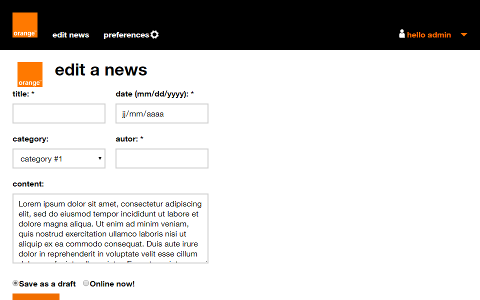
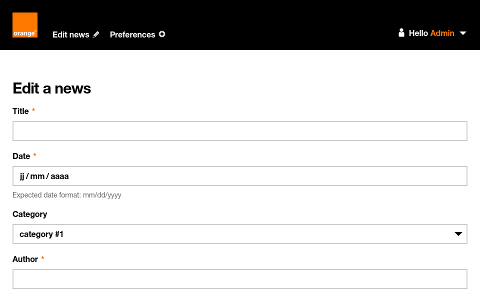
docs(examples): improve administration edition page example

diff --git a/site/docs/4.4/examples/administration-edition-page/index.html b/site/docs/4.4/examples/administration-edition-page/index.html
@@ -1,133 +1,125 @@
 <!DOCTYPE html>
-<html lang="en">
+<html lang="en" class="h-100">
   <head>
     <meta charset="utf-8">
     <meta name="viewport" content="width=device-width, initial-scale=1">
     <title>Edit an entry</title>
-
     <link href="../../dist/css/orangeHelvetica.css" rel="stylesheet">
     <link href="../../dist/css/orangeIcons.css" rel="stylesheet">
     <link rel="stylesheet" href="../../dist/css/boosted.css" />
     <link href="example.css" rel="stylesheet">
   </head>
-  <body>
-
+  <body class="d-flex flex-column h-100">
     <div class="skiplinks" >
       <div class="skiplinks-section sr-only">
         <ul>
-          <li id="cdu-skiplink">
-          </li>
-          <li>
-            <a href="#content" class="skiplinks-trigger">content</a>
-          </li>
+          <li id="cdu-skiplink"></li>
+          <li><a href="#content" class="skiplinks-trigger">content</a></li>
         </ul>
       </div>
     </div>
 
     <header role="banner">
-      <nav role="navigation" class="navbar navbar-dark bg-dark navbar-expand-md">
+      <nav role="navigation" class="navbar navbar-dark bg-dark navbar-expand-md" aria-label="Main navigation">
         <div class="container-fluid">
-          <a class="navbar-brand" href="#"><img src="../../dist/img/orange_logo.svg" alt="Back to homepage" title="Back to homepage"/></a>
+          <a class="navbar-brand" href="#">
+            <img src="../../dist/img/orange_logo.svg" alt="Back to homepage" title="Back to homepage"/>
+          </a>
           <button class="navbar-toggler" type="button" data-toggle="collapse" data-target="#orange-navbar-collapse" aria-controls="orange-navbar-collapse" aria-expanded="false" aria-label="Toggle navigation">
             <span class="navbar-toggler-icon"></span>
           </button>
         <div class="navbar-collapse justify-content-between collapse" id="orange-navbar-collapse">
           <ul class="navbar-nav">
-            <li class="nav-item"><a class="nav-link" href="#" role="button">edit news &nbsp;<span class="glyphicon glyphicon-pencil" aria-hidden="true"></span></a></li>
-            <li class="nav-item"><a class="nav-link svg-settings sample-svg-settings" href="#" role="button">preferences</a></li>
+            <li class="nav-item">
+              <a class="nav-link d-inline-flex align-items-center" href="#">
+                Edit news
+                <span class="icon icon-Pencil ml-1" aria-hidden="true"></span>
+              </a>
+            </li>
+            <li class="nav-item">
+              <a class="nav-link d-inline-flex align-items-center" href="#">
+                Preferences
+                <span class="svg-settings ml-1" aria-hidden="true"></span>
+              </a>
+            </li>
           </ul>
           <ul class="navbar-nav">
             <li class="nav-item dropdown">
-              <a href="#" class="nav-link dropdown-toggle active svg-avatar-before" data-toggle="dropdown" role="button">
-                <span class="svg-avatar" aria-hidden="true"></span>hello <span class="orange">admin&nbsp;</span>
-              </a>
+              <button type="button" class="nav-link btn btn-link btn-inverse dropdown-toggle d-flex align-items-center" data-toggle="dropdown">
+                <span class="svg-avatar mr-1" aria-hidden="true"></span>
+                <span>Hello <span class="text-primary">Admin</span></span>
+              </button>
               <ul class="dropdown-menu dropdown-menu-right">
-                <li><a class="dropdown-item" href="#">logout</a></li>
-                <li><a class="dropdown-item" href="#">my portal</a></li>
+                <li><a class="dropdown-item" href="#">Logout</a></li>
+                <li><a class="dropdown-item" href="#">Preferences</a></li>
               </ul>
             </li>
           </ul>
         </div><!-- /.navbar-collapse -->
       </div><!-- /.container -->
     </nav>
-        </header>
+  </header>
 
-        <main role="main" id="content" class="container-fluid">
-        <div id="header" class="container-fluid">
-      <div class="row">
-        <div class="col-sm-6">
-          <a href="#">
-            <img src="../../dist/img/orange_logo.svg" alt="Back to homepage">
-          </a>
-          <h1>edit a news</h1>
-        </div>
-      </div>
-    </div>
-
-      <div class="row">
-        <form action="#" id="PostAdminEditForm" method="post" accept-charset="utf-8">
-          <div class="row">
-            <div class="col-md-6">
-              <div class="form-group required">
-                <label for="PostName">title: <span class="star">*</span></label>
-                <input name="data[Post][titre]" class="form-control" maxlength="255" type="text" id="PostName" required="required" aria-required="true" title="title is empty">
-              </div>
-            </div>
-            <div class="col-md-6">
-              <div class="form-group required">
-                <label for="PostDate">date (<span id="date-format">mm/dd/yyyy</span>): <span class="star">*</span></label>
-                <input pattern="(0[1-9]|1[012])[- /.](0[1-9]|[12][0-9]|3[01])[- /.](19|20)\d\d" class="form-control" type="date" id="PostDate" required="required" aria-required="true" aria-describedby="date-format"  title="Enter a date  with dd/mm/yyyy format">
-              </div>
-            </div>
-          </div>
-          <div class="row">
-            <div class="col-md-6">
-              <div class="form-group">
-                <label for="PostCategoryId">category:</label>
-                <select name="data[Post][category_id]" class="form-control" id="PostCategoryId">
-                  <option value="1">category #1</option>
-                  <option value="2">category #2</option>
-                  <option value="3">category #3</option>
-                </select>
-              </div>
-            </div>
-            <div class="col-md-6">
-              <div class="form-group">
-                <label for="PostUser">autor: <span class="star">*</span></label>
-                <input name="data[Post][user]" class="form-control" maxlength="255" type="text" id="PostUser" required="required" aria-required="true" title="autor is empty">
-              </div>
-            </div>
-          </div>
+  <main role="main" id="content" class="container-fluid my-5">
+      <h1>Edit a news</h1>
+    
+      <form class="row" action="#" id="PostAdminEditForm" method="post" accept-charset="utf-8">
+        <div class="col-12 col-lg-4">
           <div class="form-group required">
-            <label for="PostContent">content:</label>
-            <textarea name="data[Post][contenue]" class="form-control" cols="30" rows="6" id="PostContent">Lorem ipsum dolor sit amet, consectetur adipiscing elit, sed do eiusmod tempor incididunt ut labore et dolore magna aliqua. Ut enim ad minim veniam, quis nostrud exercitation ullamco laboris nisi ut aliquip ex ea commodo consequat. Duis aute irure dolor in reprehenderit in voluptate velit esse cillum dolore eu fugiat nulla pariatur. Excepteur sint occaecat cupidatat non proident, sunt in culpa qui officia deserunt mollit anim id est laborum.</textarea>
+              <label for="PostName" class="is-required">Title</label>
+              <input name="data[Post][titre]" class="form-control" maxlength="255" type="text" id="PostName" required="required" aria-required="true">
+            </div>
+            <div class="form-group required">
+              <label for="PostDate" class="is-required">Date</label>
+              <input pattern="(0[1-9]|1[012])[- /.](0[1-9]|[12][0-9]|3[01])[- /.](19|20)\d\d" class="form-control" type="date" id="PostDate" required="required" aria-required="true" aria-describedby="date-format"  title="Enter a date  with dd/mm/yyyy format">
+              <span class="form-text small text-muted" id="date-format">Expected date format: mm/dd/yyyy</span>
+            </div>
+            <div class="form-group">
+              <label for="PostCategoryId">Category</label>
+              <select name="data[Post][category_id]" class="custom-select" id="PostCategoryId">
+                <option value="1">category #1</option>
+                <option value="2">category #2</option>
+                <option value="3">category #3</option>
+              </select>
+            </div>
+            <div class="form-group">
+              <label for="PostUser" class="is-required">Author</label>
+              <input name="data[Post][user]" class="form-control" maxlength="255" type="text" id="PostUser" required="required" aria-required="true" title="autor is empty">
+            </div>
           </div>
-          <div id="radio-action" class="form-inline">
-            <input type="radio" class="form-control required" name="action" value="saveDraft" id="draft" checked="checked" autocomplete="off">
-            <label for="draft">Save as a draft</label>
-            <input type="radio" class="form-control required" name="action" value="onlineNow" id="now" autocomplete="off">
-            <label for="now">Online now!</label>
-          </div>
-          <div class="submit">
-            <input class="btn btn-primary" type="submit" value="Submit">
+          <div class="col-12 col-lg-8">
+            <div class="form-group required">
+              <label for="PostContent" class="is-required">Content</label>
+              <textarea name="data[Post][contenue]" class="form-control" cols="30" rows="10" id="PostContent">Lorem ipsum dolor sit amet, consectetur adipiscing elit, sed do eiusmod tempor incididunt ut labore et dolore magna aliqua. Ut enim ad minim veniam, quis nostrud exercitation ullamco laboris nisi ut aliquip ex ea commodo consequat. Duis aute irure dolor in reprehenderit in voluptate velit esse cillum dolore eu fugiat nulla pariatur. Excepteur sint occaecat cupidatat non proident, sunt in culpa qui officia deserunt mollit anim id est laborum.</textarea>
+            </div>
+            <fieldset class="form-group">
+              <legend>Action</legend>
+              <div id="radio-action" class="form-inline">
+                <div class="custom-control custom-radio custom-control-inline">
+                  <input type="radio" name="action" value="saveDraft" id="draft" checked="checked" class="custom-control-input" autocomplete="off">
+                  <label class="custom-control-label" for="draft">Save draft</label>
+                </div>
+                <div class="custom-control custom-radio custom-control-inline">
+                  <input type="radio"  name="action" value="onlineNow" id="now" autocomplete="off" class="custom-control-input">
+                  <label class="custom-control-label" for="now">Publish</label>
+                </div>
+              </div>
+            </fieldset>
+            <div class="submit mt-2">
+              <button class="btn btn-primary" type="submit">Submit</button>
+            </div>
           </div>
         </form>
-
-      </div><!-- fin de la row globale-->
-
-      <hr>
-
     </main><!--/.container-->
 
-
-    <footer role="contentinfo">
-      <div class="container-fluid">
-        <span class="navbar-left">© Orange 2015</span>
-        <span id="id-for-cdu-link" class="navbar-right"></span>
+    <footer role="contentinfo" class="o-footer mt-auto">
+      <div class="o-footer-bottom">
+        <div class="container-fluid">
+           <p class="my-2">© Orange 2015</p>
+        </div>
       </div>
     </footer>
-
-
+    
     <!-- Boosted core JavaScript
     ================================================== -->
     <!-- Placed at the end of the document so the pages load faster -->
@@ -158,11 +150,7 @@
           $(".skiplinks-section").removeClass("skiplinks-show").addClass("sr-only")
         });
       }
-
     </script>
-
-    <!-- <script type="text/javascript" src="http://confort-plus.orange.com/js/toolbar-min.js"></script> -->
-
   </body>
 </html>
 

diff --git a/site/docs/4.4/examples/administration-edition-page/example.css b/site/docs/4.4/examples/administration-edition-page/example.css
@@ -1,93 +1,5 @@
-/* stylelint-disable selector-max-id, declaration-no-important */
-.orange{
-  color: #f16e00;
-}
-#img-home{
-  vertical-align: inherit;
-}
-#header{
-  margin-top: 20px;
-}
-#header a{
-  display: inline-block;
-}
-#header h1 {
-  display: inline-block;
-  margin-left: 20px;
-  color: #000;
-  vertical-align: middle;
-}
-#header input{
-  height: 35px;
-}
-#localContainer{
-  padding: 0;
-  padding-bottom: 30px;
-}
-#localNavigation{
-  margin: 5px 0 10px;
-}
-#news-table {
-  margin-top: 10px;
-}
-#news-table th{
-  color: #000;
-}
-.tab-content .tab-pane p{
-  margin-top: 5px;
-  margin-left: 10px;
-}
-#PostAdminEditForm {
-  margin-right: 10px;
-  margin-left: 10px;
-}
-#radio-action label {
-  margin-right: 15px;
-}
-footer span{
-  padding-right: 42px;
-  margin-top: 10px;
-}
-footer span:nth-child(8){
-  padding-right: 0;
-}
-footer {
-  height: auto;
-  min-height: 54px;
-  margin: 10px auto 20px;
-  overflow: hidden;
-  background-color: #eee;
-  border-top: 1px solid #d6d6d6;
-  border-bottom: 1px solid #f3f3f3;
-}
-footer a {
-  color: inherit;
-}
-.navbar-light .navbar-brand:hover,
-.navbar-light .navbar-brand:focus {
-  background-color: inherit;
-}
-.navbar-dark #id-for-cdu-link a{
-  color: #fff;
-}
-.navbar-dark #id-for-cdu-link a:hover,
-.navbar-dark #id-for-cdu-link a:focus{
-  color: #f16e00;
-}
-
-.svg-avatar::after {
-  top: -2px;
-  left: -1.25rem;
-}
-
-.navbar .nav-link.sample-svg-settings::after {
-  right: -1.25rem !important;
-}
-
-@media (max-width: 767px) {
-  .navbar .btn{
-    height: auto;
-    padding: 6px 10px;
-    font-size: inherit;
-  }
+.svg-settings::after {
+  width: 1rem;
+  height: 1rem;
+  background-size: 1rem;
 }
